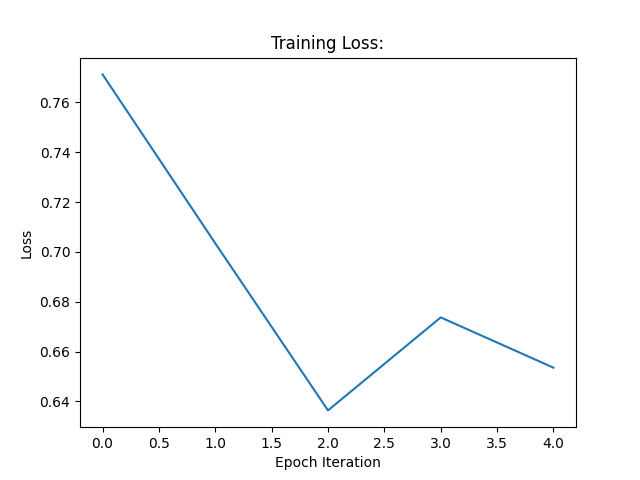
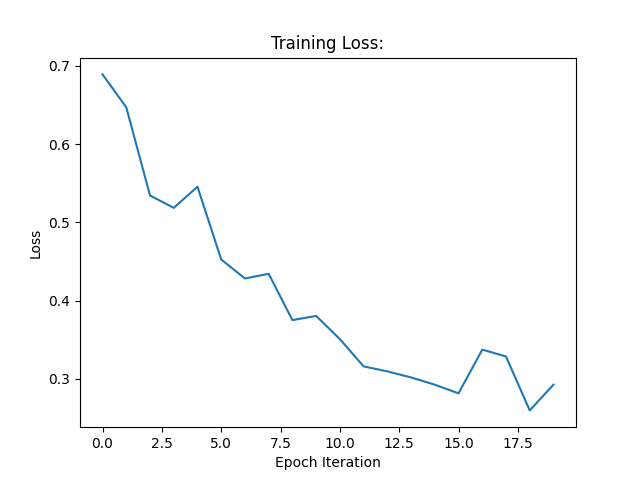
10/03/2020-Atkins-13:54:58 Updated all testing and training files to increase model accuracy

diff --git a/project/conv/conv_test.py b/project/conv/conv_test.py
@@ -1,2 +1,83 @@
-def conv_test():
+import tensorflow as tf
+import numpy as np
+import matplotlib.pyplot as plt
+
+conv_checkpoint_dir = "weights/conv/"
+conv_results_folder = "results/conv/"
+
+
+def conv_test(x_test, y_test, checkpoint_file):
+    # Parameters:
+    # Base Params:
+    categories = 10
+    image_dim = 28
+    input_depth = 1
+    # Conv Layer 1:
+    # Input: None x 28 x 28 x 1
+    layer_1_depth = 3
+    k1_width = 3
+    stride_1 = 1
+    padding_1 = "SAME"
+    # Conv Layer 2:
+    # Input: None x 28 x 28 x 3
+    layer_2_depth = 6
+    k2_width = 5
+    stride_2 = 2
+    padding_2 = "SAME"
+    # Output: None x 14 x 14 x 6
+    # Pooling Layer 2:
+    # Output: None x 7 x 7 x 6
+    conv_output_nodes = 14 * 14 * 6
+
+
+    # Fully Connected:
+    increase_factor = 1.5
+    hidden_layer_3 = 32
+    hidden_layer_4 = round(hidden_layer_3 * increase_factor)
+    output_layer = 10
+
+    # Defining Layers:
+    # Defining Placehodlers:
+    x = tf.placeholder(tf.float32, [None, image_dim, image_dim, input_depth])
+    y_ = tf.placeholder(tf.float32, [None, categories])
+
+    # [filter_height, filter_width, in_channels, out_channels]
+    # Conv-Pool:
+    k1 = tf.Variable(tf.random_normal([k1_width, k1_width, input_depth, layer_1_depth]))
+    y1 = tf.nn.relu(tf.nn.conv2d(x, k1, [stride_1], padding_1))
+    y1 = tf.nn.pool(y1, [2, 2], pooling_type="MAX", padding="SAME")
+    # Conv-Pool:
+    k2 = tf.Variable(tf.random_normal([k2_width, k2_width, layer_1_depth, layer_2_depth]))
+    y2 = tf.nn.relu(tf.nn.conv2d(y1, k2, [stride_2], padding_2))
+    y2 = tf.nn.pool(y2, [2, 2], pooling_type="MAX", padding="SAME")
+    y2 = tf.reshape(y2, [-1, conv_output_nodes])
+
+    # Layer 3 variables:
+    W3 = tf.Variable(tf.truncated_normal([conv_output_nodes, hidden_layer_3], stddev=0.15))
+    b3 = tf.Variable(tf.zeros([hidden_layer_3]))
+    y3 = tf.math.sigmoid(tf.matmul(y2, W3) + b3)
+    # Layer 4 variables:
+    W4 = tf.Variable(tf.truncated_normal([hidden_layer_3, hidden_layer_4], stddev=0.15))
+    b4 = tf.Variable(tf.zeros([hidden_layer_4]))
+    y4 = tf.matmul(y3, W4) + b4
+    # Layer 5 Variables:
+    W5 = tf.Variable(tf.truncated_normal([hidden_layer_4, output_layer], stddev=0.15))
+    b5 = tf.Variable(tf.zeros([output_layer]))
+    y = tf.matmul(y4, W5) + b5
+
+
+    # For weight saving:
+    saver = tf.train.Saver()
+    checkpoint = conv_checkpoint_dir + checkpoint_file
+
+    with tf.Session() as sess:
+        sess.run(tf.global_variables_initializer())
+
+        test_output = sess.run(y, feed_dict={x: x_test, y_: y_test})
+        predictions = np.argmax(test_output, axis=1)
+        targets = np.argmax(y_test, axis=1)
+        accuracy = np.sum(np.equal(predictions, targets))/test_output.shape[0] * 100
+
+        print(f"Testing Accuracy = {accuracy}%")
+
     return

diff --git a/project/dense/dense_train.py b/project/dense/dense_train.py
@@ -2,8 +2,8 @@ import tensorflow as tf
 import numpy as np
 import matplotlib.pyplot as plt
 
-checkpoint_dir = "weights/"
-results_folder = "results/dense/"
+dense_checkpoint_dir = "weights/dense/"
+dense_results_dir = "results/dense/"
 
 
 def dense_train(x_train, y_train, learning_rate, num_epochs, batch_size, checkpoint_frequency=10, num_models=200):
@@ -55,13 +55,13 @@ def dense_train(x_train, y_train, learning_rate, num_epochs, batch_size, checkpo
             training_losses.append(training_loss)
 
             if epoch_iteration % checkpoint_frequency == 0:
-                checkpoint = checkpoint_dir + f"dense_epoch_{epoch_iteration}.ckpt"
+                checkpoint = dense_checkpoint_dir + f"dense_epoch_{epoch_iteration}.ckpt"
                 saver.save(sess, checkpoint)
         sess.close()
     plt.title("Training Loss:")
     plt.ylabel("Loss")
     plt.xlabel("Epoch Iteration")
     plt.plot(training_losses)
-    plt.savefig(results_folder + "training_loss.png")
+    plt.savefig(dense_results_dir + "training_loss.png")
     plt.show()
     return

diff --git a/project/main.py b/project/main.py
@@ -10,7 +10,7 @@ def dense(_train):
 
     # Training Parameters:
     learning_rate = 0.001
-    num_epochs = 500
+    num_epochs = 20
     num_models = 10
     batch_size = 64
     # Testing Parameters:
@@ -26,14 +26,15 @@ def conv(_train):
     (x_train, y_train), (x_test, y_test) = load_MNIST()
 
     # Training Parameters:
-    learning_rate = 0.001
-    num_epochs = 5
+    learning_rate = 0.01
+    num_epochs = 20
     num_models = 10
-    batch_size = 64
+    batch_size = 128
+    checkpoint_frequency = 2
     # Testing Parameters:
     checkpoint_file = "conv_epoch_90.ckpt"
     if _train:
-        conv_train(x_train, y_train, learning_rate, num_epochs, batch_size, checkpoint_frequency=10,
+        conv_train(x_train, y_train, learning_rate, num_epochs, batch_size, checkpoint_frequency=checkpoint_frequency,
                     num_models=num_models)
     else:
         conv_test(x_test, y_test, checkpoint_file)

diff --git a/project/dense/dense_test.py b/project/dense/dense_test.py
@@ -1,6 +1,6 @@
 import tensorflow as tf
 import numpy as np
-from project.dense.dense_train import checkpoint_dir, results_folder
+from project.dense.dense_train import dense_checkpoint_dir, dense_results_dir
 
 
 def dense_test(x_test, y_test, checkpoint_file):
@@ -30,7 +30,7 @@ def dense_test(x_test, y_test, checkpoint_file):
 
     # For weight saving:
     saver = tf.train.Saver()
-    checkpoint = checkpoint_dir + checkpoint_file
+    checkpoint = dense_checkpoint_dir + checkpoint_file
 
     with tf.Session() as sess:
         saver.restore(sess, checkpoint)

diff --git a/project/conv/conv_train.py b/project/conv/conv_train.py
@@ -89,7 +89,7 @@ def conv_train(x_train, y_train, learning_rate, num_epochs, batch_size, checkpoi
             training_losses.append(training_loss)
 
             if epoch_iteration % checkpoint_frequency == 0:
-                checkpoint = checkpoint_dir + f"conv_epoch_{epoch_iteration}.ckpt"
+                checkpoint = conv_checkpoint_dir + f"conv_epoch_{epoch_iteration}.ckpt"
                 saver.save(sess, checkpoint)
         sess.close()
     plt.title("Training Loss:")

diff --git a/data_management/data_manipulation.py b/data_management/data_manipulation.py
@@ -1,6 +1,5 @@
 from mnist import MNIST
 import numpy as np
-import matplotlib.pyplot as plt
 
 MNIST_dir = "data_management/dataset/"
 np_save_dir = "data_management/np_dataset/"
